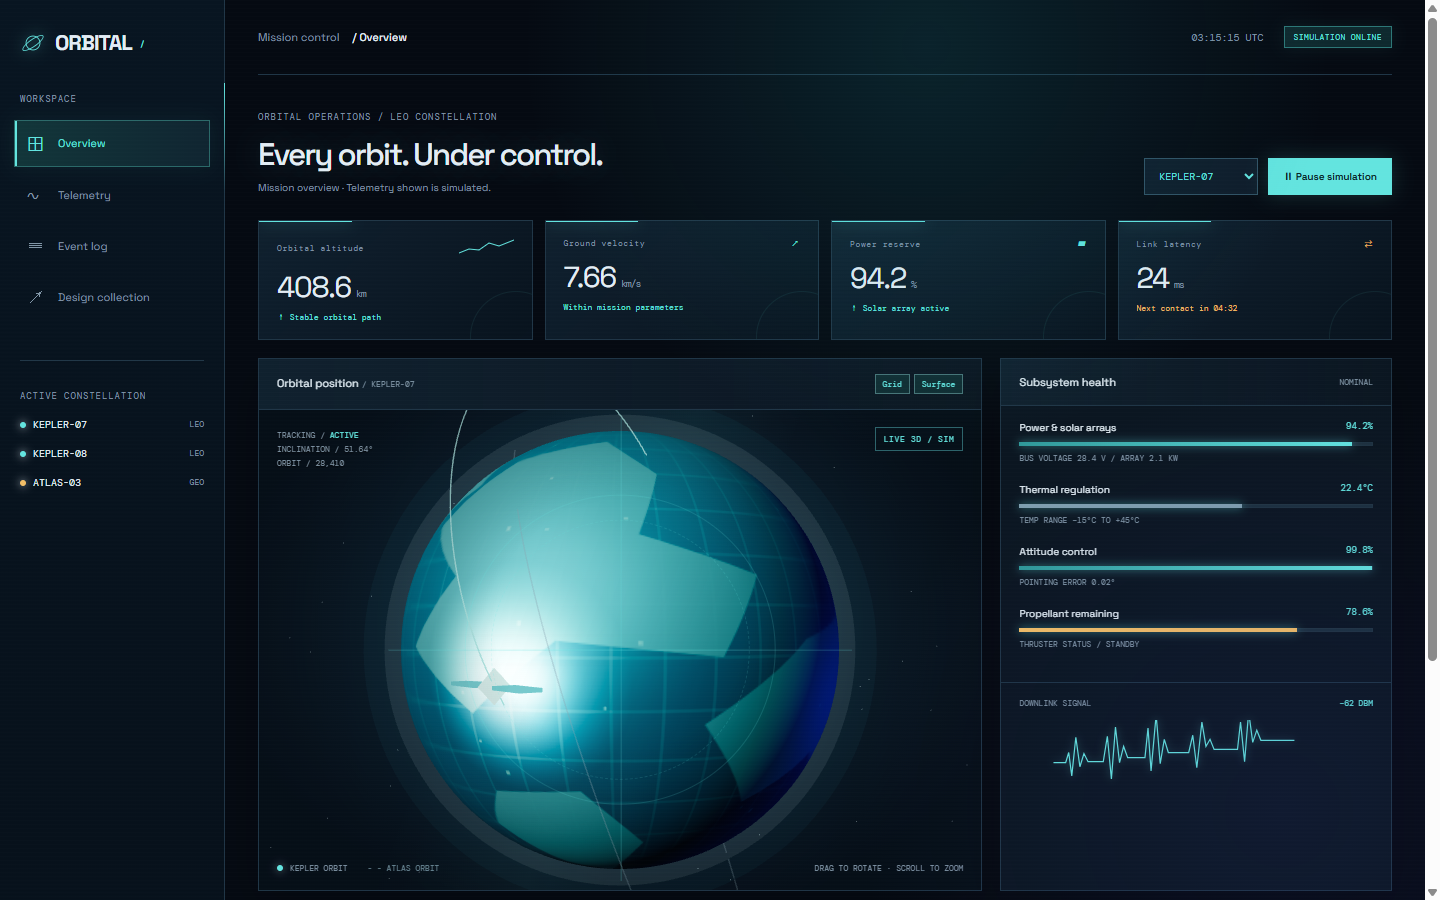
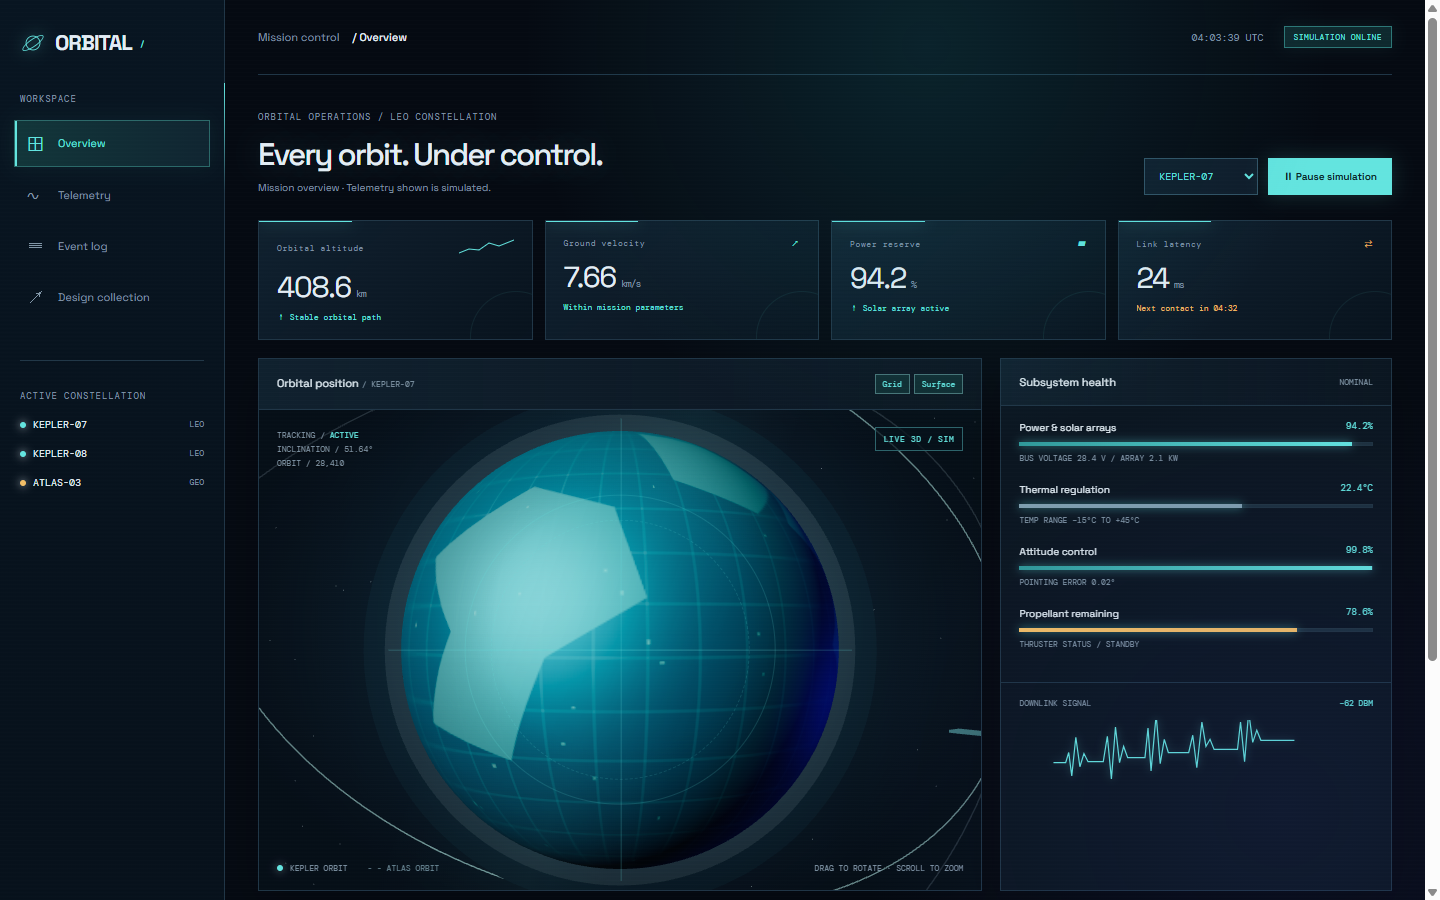
fix: keep orbital satellites outside earth

Changed region(s): [[0.2812, 0.4667, 0.5312, 0.9644], [0.4688, 0.7156, 0.5625, 0.8711], [0.6562, 0.8089, 0.6875, 0.84]]

diff --git a/ui-atlas-demo/mission.html b/ui-atlas-demo/mission.html
@@ -45,10 +45,11 @@
     function resize(){const width=viewport.clientWidth,height=viewport.clientHeight;camera.aspect=width/height;camera.updateProjectionMatrix();renderer.setSize(width,height,false)}new ResizeObserver(resize).observe(viewport);
     function makeEarthTexture(){const c=document.createElement('canvas');c.width=1024;c.height=512;const x=c.getContext('2d'),ocean=x.createLinearGradient(0,0,0,512);ocean.addColorStop(0,'#0c4054');ocean.addColorStop(.5,'#08283c');ocean.addColorStop(1,'#041725');x.fillStyle=ocean;x.fillRect(0,0,1024,512);x.globalAlpha=.16;x.strokeStyle='#5eddd8';x.lineWidth=1;for(let y=32;y<512;y+=32){x.beginPath();x.moveTo(0,y);x.lineTo(1024,y);x.stroke()}for(let xx=32;xx<1024;xx+=32){x.beginPath();x.moveTo(xx,0);x.lineTo(xx,512);x.stroke()}const shapes=[[[.08,.37],[.16,.27],[.23,.31],[.25,.43],[.19,.5],[.16,.63],[.09,.59],[.12,.47]],[[.27,.11],[.37,.14],[.41,.25],[.35,.31],[.28,.26]],[[.44,.2],[.55,.16],[.6,.25],[.58,.35],[.66,.4],[.63,.5],[.53,.48],[.47,.57],[.41,.49],[.45,.4],[.39,.32]],[[.7,.48],[.81,.43],[.89,.5],[.91,.63],[.83,.7],[.74,.64],[.67,.7],[.62,.58]],[[.47,.68],[.54,.67],[.59,.77],[.55,.91],[.48,.86],[.44,.75]]];x.globalAlpha=.9;x.fillStyle='#2d6c70';shapes.forEach(points=>{x.beginPath();points.forEach(([px,py],i)=>i?x.lineTo(px*1024,py*512):x.moveTo(px*1024,py*512));x.closePath();x.fill()});x.globalAlpha=.4;x.fillStyle='#9ee5c1';for(let i=0;i<85;i++){const px=Math.random()*1024,py=Math.random()*512;x.fillRect(px,py,Math.random()*2+1,Math.random()*2+1)}return new THREE.CanvasTexture(c)}
     function makeStars(){const positions=[];for(let i=0;i<1500;i++){const r=10+Math.random()*18,a=Math.random()*Math.PI*2,b=Math.acos(2*Math.random()-1);positions.push(r*Math.sin(b)*Math.cos(a),r*Math.sin(b)*Math.sin(a),r*Math.cos(b))}const geo=new THREE.BufferGeometry();geo.setAttribute('position',new THREE.Float32BufferAttribute(positions,3));scene.add(new THREE.Points(geo,new THREE.PointsMaterial({color:0xa4d9e4,size:.025,transparent:true,opacity:.6,sizeAttenuation:true})))}
-    function lineOrbit(radius,yRadius,color,dash=false){const points=[];for(let i=0;i<=160;i++){const t=i/160*Math.PI*2;points.push(new THREE.Vector3(Math.cos(t)*radius,Math.sin(t)*yRadius,0))}const geo=new THREE.BufferGeometry().setFromPoints(points),line=new THREE.LineLoop(geo,new THREE.LineBasicMaterial({color,transparent:true,opacity:dash?.35:.9}));line.rotation.set(.38,0,-.42);root.add(line);return line}
+    const orbitData={kepler:{radius:1.62,yRadius:1.18,plane:new THREE.Euler(.38,0,-.42)},atlas:{radius:2.0,yRadius:1.42,plane:new THREE.Euler(-.5,.22,.65)}};
+    function lineOrbit(radius,yRadius,color,dash=false,plane=orbitData.kepler.plane){const points=[];for(let i=0;i<=160;i++){const t=i/160*Math.PI*2;points.push(new THREE.Vector3(Math.cos(t)*radius,Math.sin(t)*yRadius,0))}const geo=new THREE.BufferGeometry().setFromPoints(points),line=new THREE.LineLoop(geo,new THREE.LineBasicMaterial({color,transparent:true,opacity:dash?.35:.9}));line.rotation.copy(plane);root.add(line);return line}
     function makeSatellite(){const group=new THREE.Group(),core=new THREE.Mesh(new THREE.OctahedronGeometry(.055,0),new THREE.MeshBasicMaterial({color:0xb4fff4}));group.add(core);const panelMat=new THREE.MeshBasicMaterial({color:0x3eacb3,transparent:true,opacity:.9});for(const side of [-1,1]){const panel=new THREE.Mesh(new THREE.BoxGeometry(.15,.012,.075),panelMat);panel.position.x=side*.13;group.add(panel)}group.add(new THREE.PointLight(0x63e4df,1.4,.7));return group}
-    function buildScene(){scene.add(new THREE.AmbientLight(0x6099aa,.36));const key=new THREE.DirectionalLight(0xa9ffff,2.4);key.position.set(-3,2,4);scene.add(key);const rim=new THREE.DirectionalLight(0x233fff,1.1);rim.position.set(4,-1,-3);scene.add(rim);makeStars();const earth=new THREE.Mesh(new THREE.SphereGeometry(1,64,64),new THREE.MeshPhongMaterial({map:makeEarthTexture(),shininess:14,specular:new THREE.Color('#2f7681')}));earthSystem.add(earth);earthSystem.add(new THREE.Mesh(new THREE.SphereGeometry(1.07,64,64),new THREE.MeshBasicMaterial({color:0x63e4df,transparent:true,opacity:.15,side:THREE.BackSide,blending:THREE.AdditiveBlending})));earthSystem.add(new THREE.Mesh(new THREE.SphereGeometry(1.16,48,48),new THREE.MeshBasicMaterial({color:0x1a91a0,transparent:true,opacity:.055,side:THREE.BackSide,blending:THREE.AdditiveBlending})));lineOrbit(1.61,.52,0x63e4df);lineOrbit(1.9,.78,0x718997,true).rotation.set(-.5,.22,.65);satellite=makeSatellite();root.add(satellite);resize();loading.classList.add('ready');window.__orbitalReady=true}
-    function animate(){requestAnimationFrame(animate);const dt=timer.getDelta();if(running){earthSystem.rotation.y+=dt*.09;root.rotation.y+=dt*.025;const t=timer.elapsedTime*.22,radius=selectedCraft==='kepler'?1.61:1.9,yr=selectedCraft==='kepler'?.52:.78;satellite.position.set(Math.cos(t)*radius,Math.sin(t)*yr,0);satellite.position.applyEuler(new THREE.Euler(.38,0,-.42));satellite.rotation.y+=dt*2}controls.update();renderer.render(scene,camera)}buildScene();animate();
+    function buildScene(){scene.add(new THREE.AmbientLight(0x6099aa,.36));const key=new THREE.DirectionalLight(0xa9ffff,2.4);key.position.set(-3,2,4);scene.add(key);const rim=new THREE.DirectionalLight(0x233fff,1.1);rim.position.set(4,-1,-3);scene.add(rim);makeStars();const earth=new THREE.Mesh(new THREE.SphereGeometry(1,64,64),new THREE.MeshPhongMaterial({map:makeEarthTexture(),shininess:14,specular:new THREE.Color('#2f7681')}));earthSystem.add(earth);earthSystem.add(new THREE.Mesh(new THREE.SphereGeometry(1.07,64,64),new THREE.MeshBasicMaterial({color:0x63e4df,transparent:true,opacity:.15,side:THREE.BackSide,blending:THREE.AdditiveBlending})));earthSystem.add(new THREE.Mesh(new THREE.SphereGeometry(1.16,48,48),new THREE.MeshBasicMaterial({color:0x1a91a0,transparent:true,opacity:.055,side:THREE.BackSide,blending:THREE.AdditiveBlending})));lineOrbit(orbitData.kepler.radius,orbitData.kepler.yRadius,0x63e4df,false,orbitData.kepler.plane);lineOrbit(orbitData.atlas.radius,orbitData.atlas.yRadius,0x718997,true,orbitData.atlas.plane);satellite=makeSatellite();root.add(satellite);resize();loading.classList.add('ready');window.__orbitalReady=true}
+    function animate(){requestAnimationFrame(animate);const dt=timer.getDelta();if(running){earthSystem.rotation.y+=dt*.09;root.rotation.y+=dt*.025;const t=timer.elapsedTime*.22,orbit=orbitData[selectedCraft];satellite.position.set(Math.cos(t)*orbit.radius,Math.sin(t)*orbit.yRadius,0).applyEuler(orbit.plane);satellite.rotation.y+=dt*2}controls.update();renderer.render(scene,camera)}buildScene();animate();
     const craftData={kepler:{altitude:'408.6',velocity:'7.66',power:'94.2',latency:'24',fuel:'78.6',name:'KEPLER-07'},atlas:{altitude:'35786',velocity:'3.07',power:'88.7',latency:'142',fuel:'62.1',name:'ATLAS-03'}};function updateClock(){document.querySelector('#clock').textContent=new Date().toISOString().slice(11,19)+' UTC'}updateClock();setInterval(()=>{if(running)updateClock()},1000);
     document.querySelector('#pause').addEventListener('click',()=>{running=!running;document.body.classList.toggle('paused',!running);document.querySelector('#pause').textContent=running?'Ⅱ Pause simulation':'▷ Resume simulation';document.querySelector('#pause').setAttribute('aria-pressed',String(!running));document.querySelector('#modeBadge').textContent=running?'SIMULATION ONLINE':'SIMULATION PAUSED';document.querySelector('#trackingState').textContent=running?'ACTIVE':'PAUSED';document.querySelector('#footerState').textContent=running?'SIMULATION RUNNING':'SIMULATION PAUSED'});document.querySelector('#craft').addEventListener('change',event=>{selectedCraft=event.target.value;const d=craftData[selectedCraft];['altitude','velocity','power','latency','fuel'].forEach(id=>document.querySelector('#'+id).textContent=d[id]+(id==='fuel'?'%':''));document.querySelector('#powerSystem').textContent=d.power+'%';document.querySelector('#powerBar').style.width=d.power+'%';document.querySelector('#fuelBar').style.width=d.fuel+'%';document.querySelector('#mapCraft').textContent=d.name});document.querySelector('#gridToggle').addEventListener('click',event=>{const visible=event.target.getAttribute('aria-pressed')!=='true';event.target.setAttribute('aria-pressed',String(visible));document.querySelector('.map-reticle').style.opacity=visible?'1':'0';document.querySelector('.orbit-map').style.backgroundImage=visible?'radial-gradient(ellipse at 50% 46%,#153c4c 0%,#0c1e2c 48%,#07111c 79%),linear-gradient(rgba(99,228,223,.045) 1px,transparent 1px),linear-gradient(90deg,rgba(99,228,223,.045) 1px,transparent 1px)':'radial-gradient(ellipse at 50% 46%,#153c4c 0%,#0c1e2c 48%,#07111c 79%)';document.querySelector('.orbit-map').style.backgroundSize=visible?'auto,32px 32px,32px 32px':'auto'});document.querySelector('#globeToggle').addEventListener('click',event=>{globeVisible=event.target.getAttribute('aria-pressed')!=='true';event.target.setAttribute('aria-pressed',String(globeVisible));document.querySelector('#orbitMap').classList.toggle('globe-toggle-hidden',!globeVisible);earthSystem.visible=globeVisible});document.querySelector('#exportButton').addEventListener('click',()=>document.querySelector('#exportDialog').showModal());document.querySelector('.close').addEventListener('click',()=>document.querySelector('#exportDialog').close());document.querySelector('#downloadCSV').addEventListener('click',()=>{const craft=craftData[document.querySelector('#craft').value],base=Number(craft.altitude),rows=['minutes_before_now,altitude_km,spacecraft,source',...Array.from({length:13},(_,i)=>`${60-i*5},${(base-.4+i*.035).toFixed(3)},${craft.name},simulation`)],url=URL.createObjectURL(new Blob([rows.join('\n')],{type:'text/csv;charset=utf-8'})),link=document.createElement('a');link.href=url;link.download=craft.name.toLowerCase()+'-simulation.csv';link.click();setTimeout(()=>URL.revokeObjectURL(url),1000)});
   </script>
